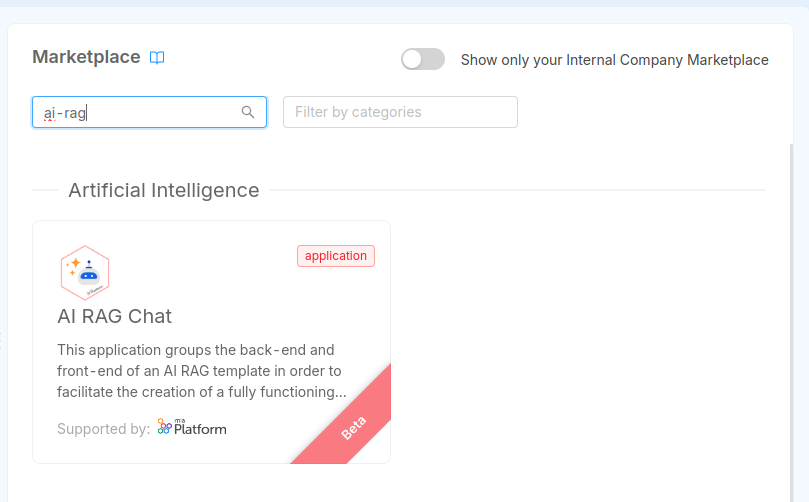
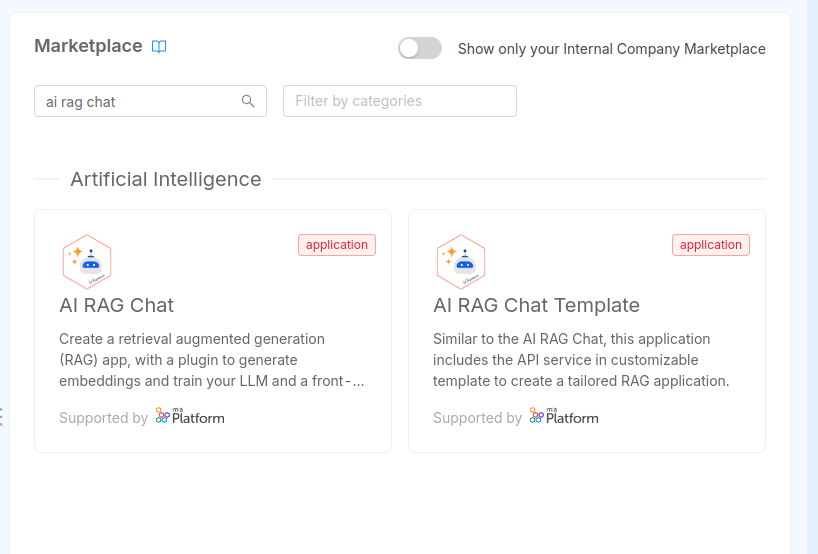
fix: image, links invalid

diff --git a/docs/marketplace/tutorials/create-a-rag-application.md b/docs/marketplace/tutorials/create-a-rag-application.md
@@ -82,10 +82,9 @@ You can also refer to the instructions [in this tutorial](/console/tutorials/con
 Next, proceed to set up the application. When searching in the marketplace, search for **AI RAG Chat**. You can find two different results:
 
 - the _AI RAG Chat_, which is the application where the _RAG Chatbot API_ is provided in form of a [plugin](/plugins/mia-platform-plugins.md), maintained and supported by the Mia-Platform team
-- the _AI RAG Chat Template_, which is the application where the _RAG Chatbot API_ is provided in form of a [template](/templates/mia-platform-templates.md) that will create a repository in your Git provider; while this template represents all the features of the plugin and it is fully functional, you can modify it by adding or removing features according to your needs
+- the _AI RAG Chat Template_, which is the application where the _RAG Chatbot API_ is provided in form of a [template](/marketplace/templates/mia_templates.md) that will create a repository in your Git provider; while this template represents all the features of the plugin and it is fully functional, you can modify it by adding or removing features according to your needs
 
-<!-- TODO: Update this picture with the AI RAG Chat without beta and the AI RAG Chat Template -->
-![AI RAG Chat in Marketplace](../img/ai-rag-chat-in-marketplace.png)
+![AI RAG Chat applications in Marketplace](../img/ai-rag-chat-in-marketplace.png)
 
 It will prompt you to create the _API Gateway_ (you can use the previously created one with the available listener), the _RAG Chatbot API_, and the _AI RAG Template Chat_, along with several endpoints to expose the service APIs for sending questions and generating embeddings.
 
@@ -189,11 +188,11 @@ Additionally to what we have seen before, the configuration must also include:
 
 - if the `llm.type` is `azure`, then it is also required to add:
   - the `llm.deploymentName` key, which is the name of the deployment of the LLM
-  - the `llm.url` key, which is the enpdoint of the LLM
+  - the `llm.url` key, which is the endpoint of the LLM
   - the `llm.apiVersion` key, which is the API version of the LLM
 - if the `embeddings.type` is `azure`, then it is also required to add:
   - the `embeddings.deploymentName` key, which is the name of the deployment of the Embedding
-  - the `embeddings.url` key, which is the enpdoint of the Embedding
+  - the `embeddings.url` key, which is the endpoint of the Embedding
   - the `embeddings.apiVersion` key, which is the API version of the Embedding
 
 The content of `vectorStore` is the same as the one described in the previous section.
